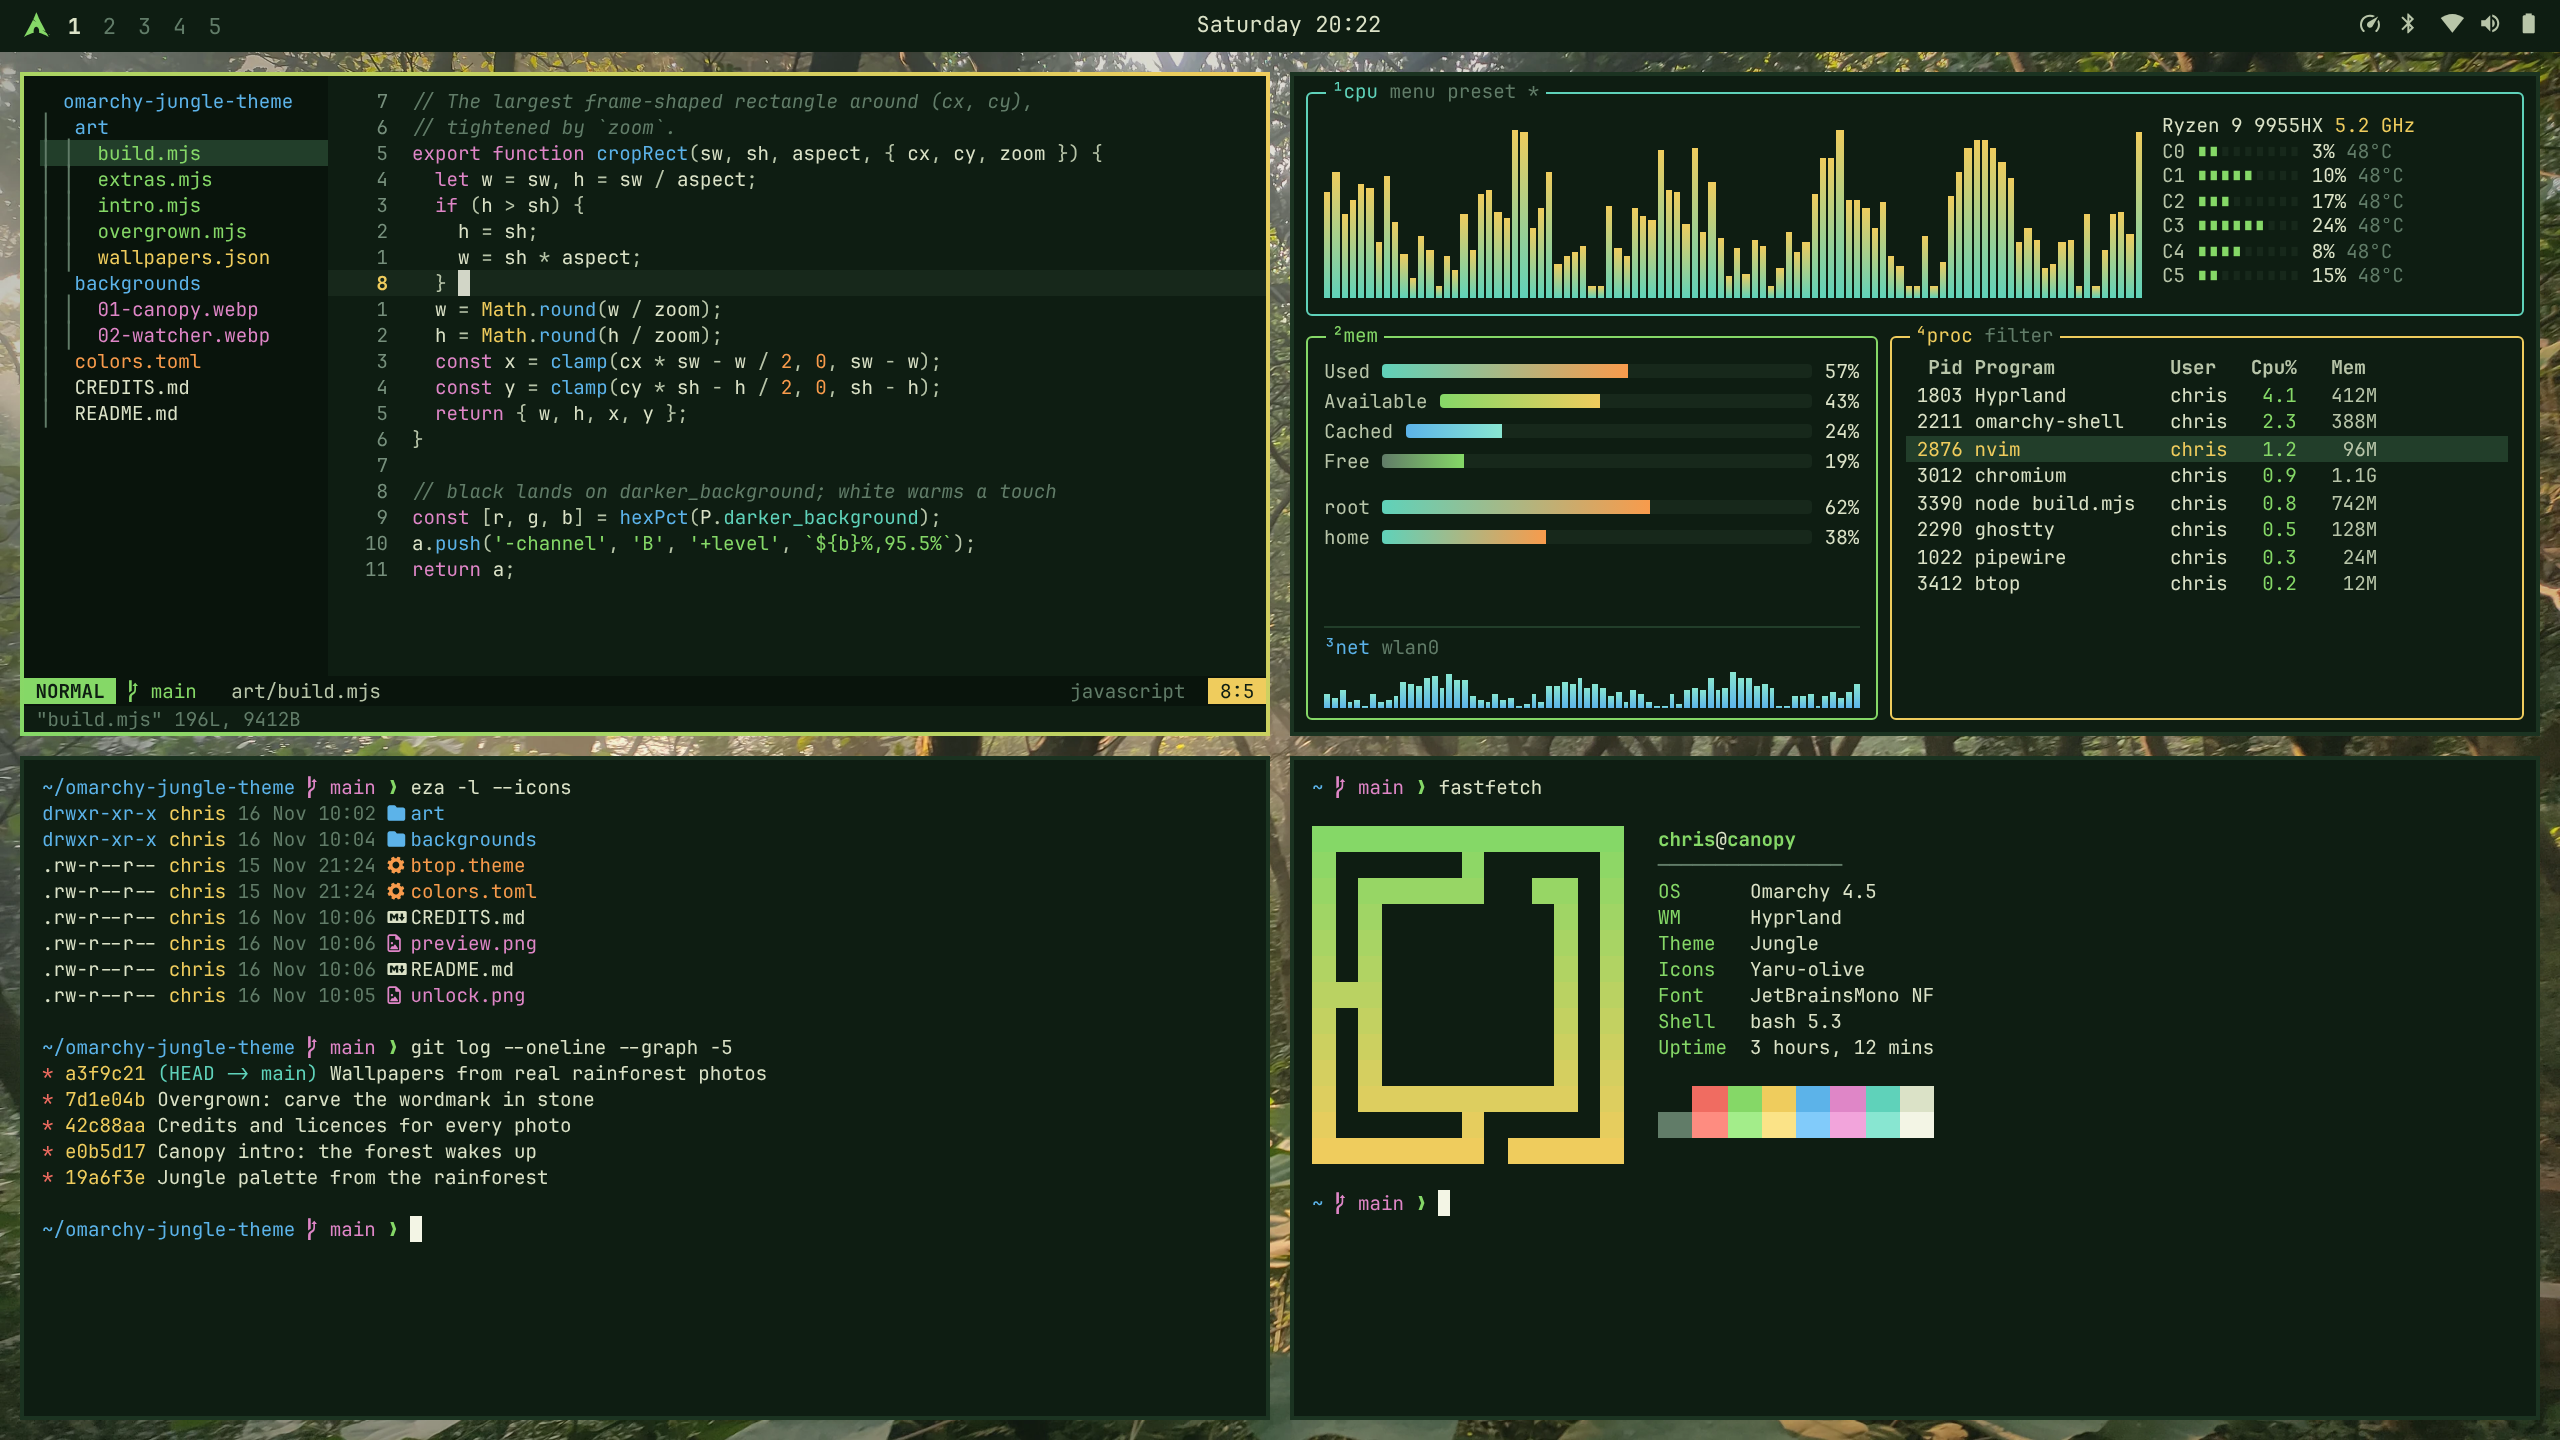
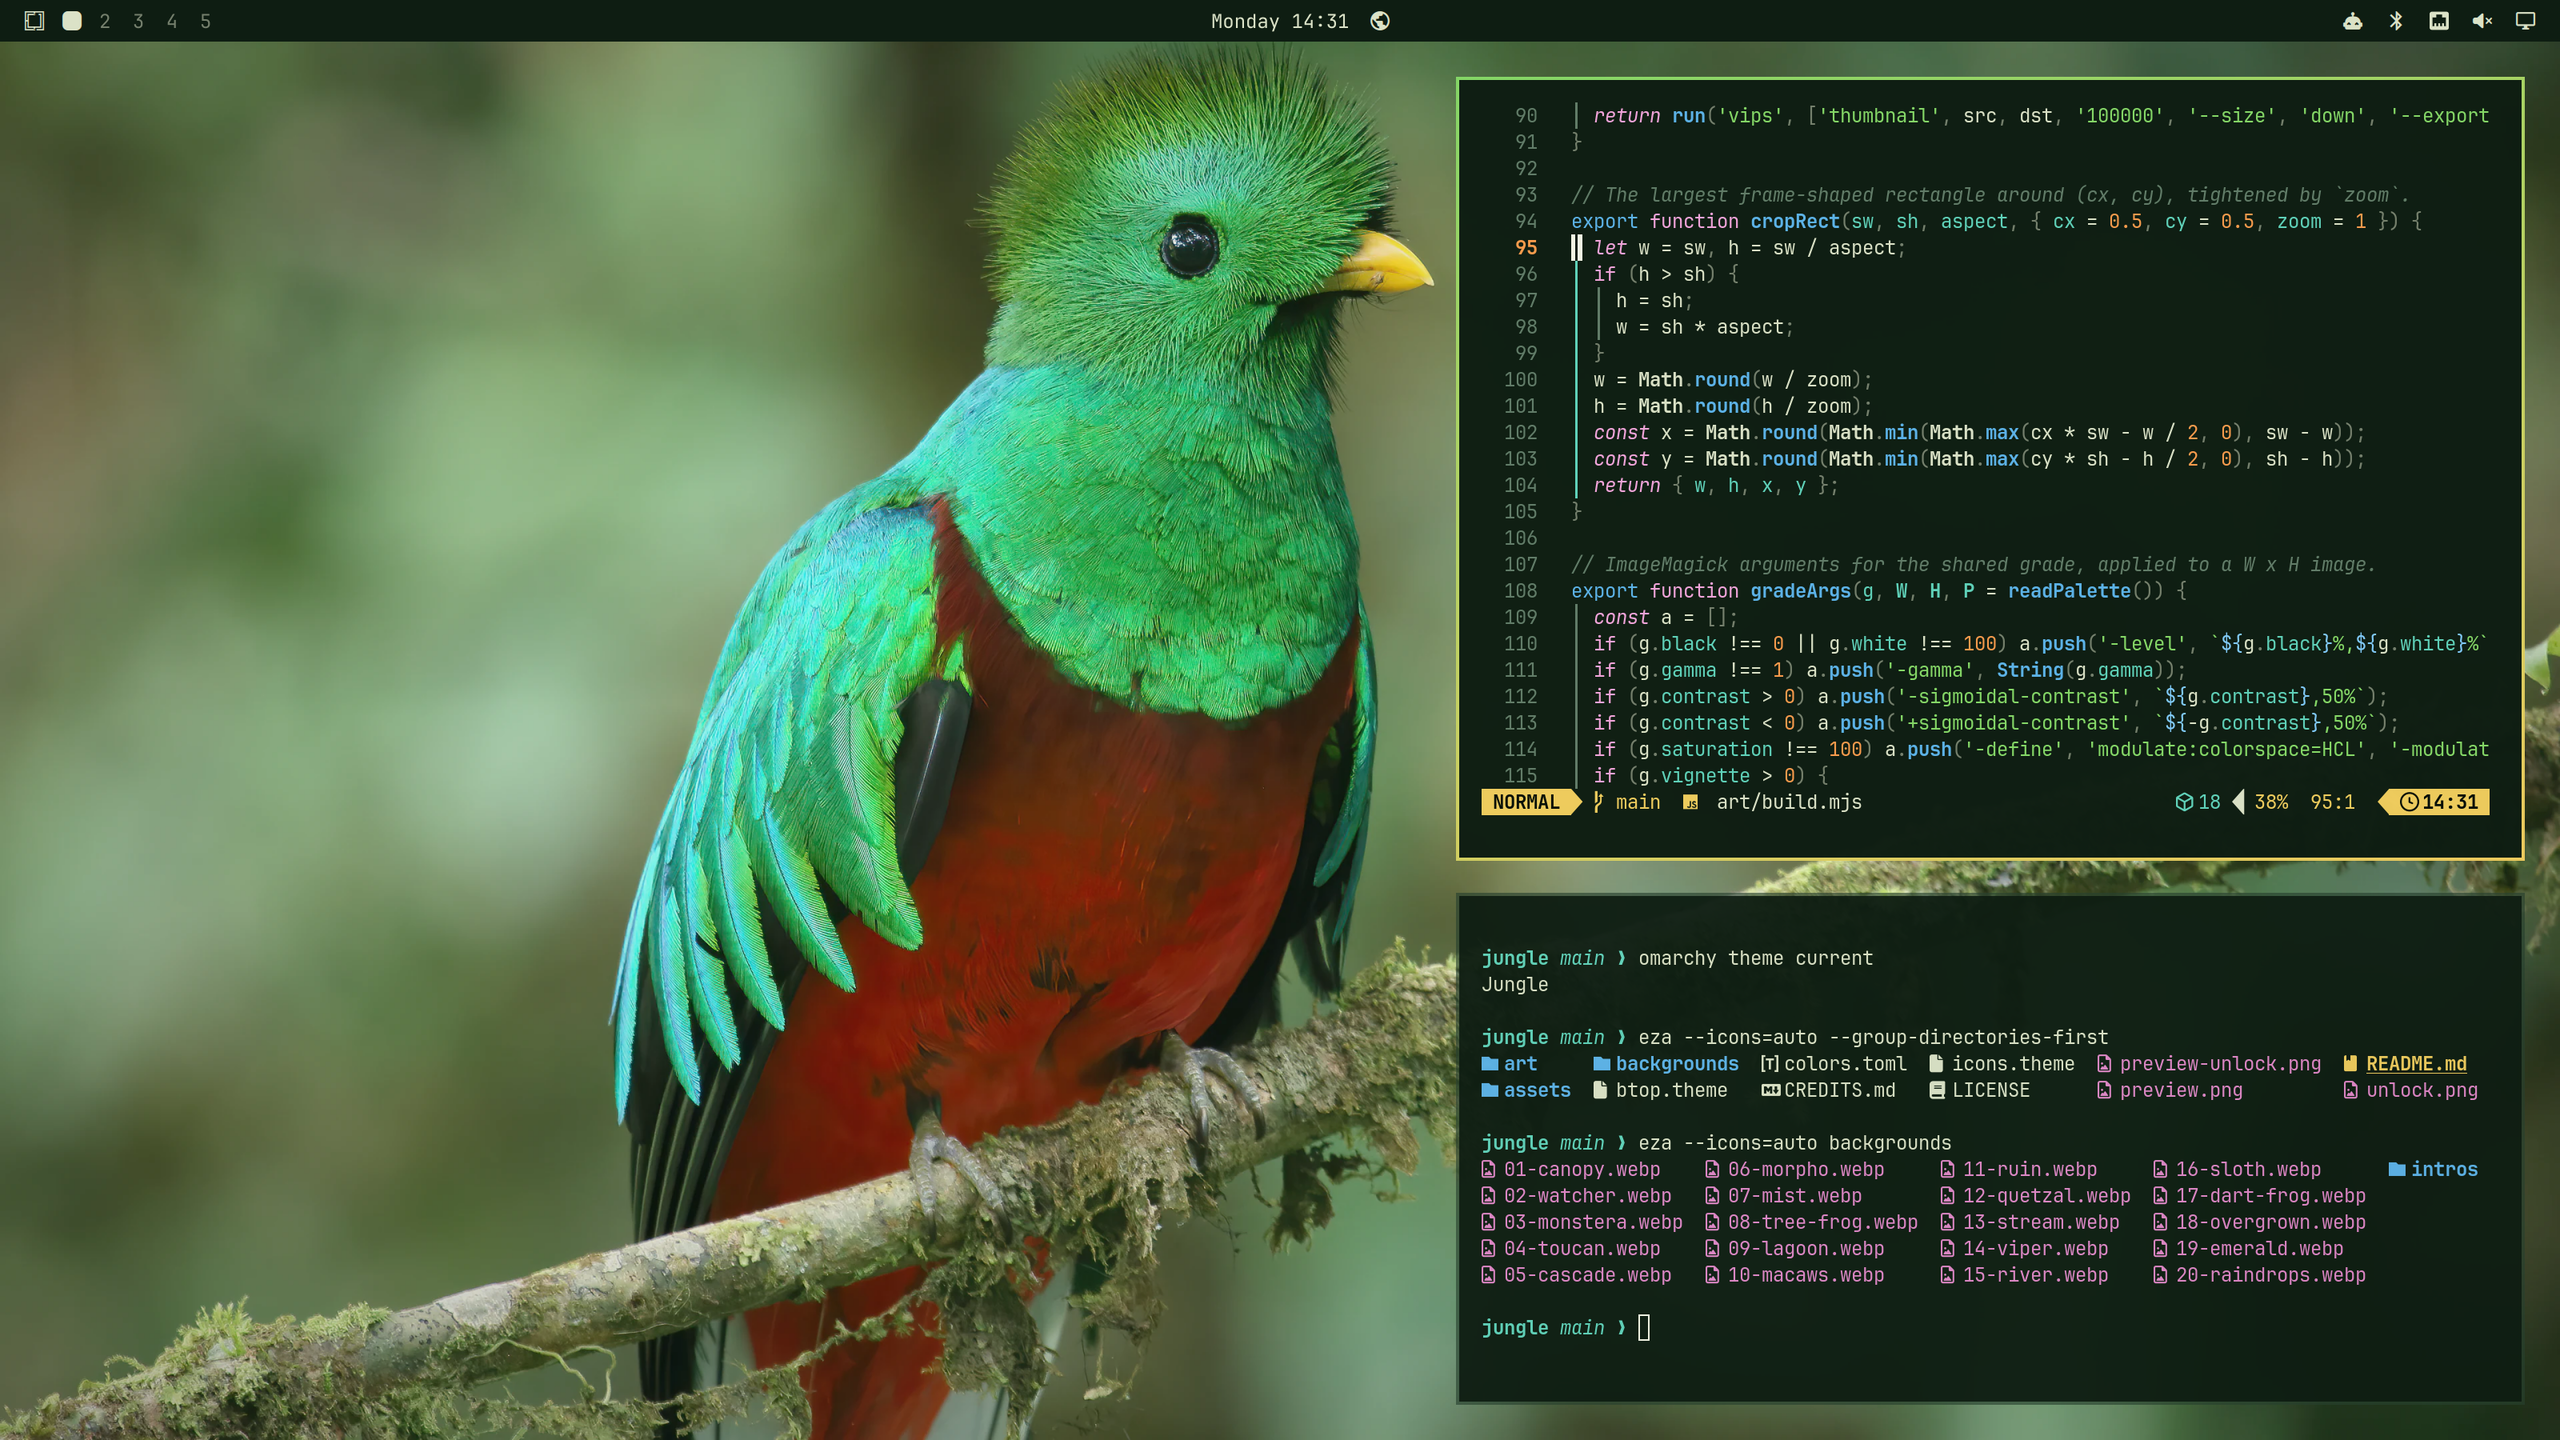
Use a real screenshot as the theme preview
preview.png was a rendered mock-up. It is now a screenshot of the theme
running on Omarchy 4.5, with Neovim and a terminal open on the Quetzal
wallpaper: the same shot submitted to the omarchy.org theme gallery.

The mock-up generator goes with it: art/preview.html, the preview step of
extras.mjs and the playwright-core dependency, so the art scripts no longer
need any npm packages. CREDITS.md now credits the photograph in the preview.

diff --git a/art/README.md b/art/README.md
@@ -1,6 +1,8 @@
 # art/: how the Jungle images are built
 
-Every image in the theme is rebuilt from its source by the scripts here.
+The wallpapers, the intro, the boot logo and the README images are rebuilt from
+their sources by the scripts here. The one exception is `../preview.png`, which
+is a screenshot of the theme running (see the end of this page).
 
 ```
 wallpapers.json   the manifest: each wallpaper's source photograph (Commons title,
@@ -9,20 +11,17 @@ wallpapers.json   the manifest: each wallpaper's source photograph (Commons titl
 build.mjs         photo wallpapers: download, convert to sRGB, crop, resize, grade, WebP
 overgrown.mjs     the carved-stone wallpaper and unlock.png
 intro.mjs         the Canopy intro video
-extras.mjs        preview.png, preview-unlock.png, README images, CREDITS.md
-preview.html      the desktop mock-up behind preview.png
+extras.mjs        preview-unlock.png, README images, CREDITS.md
 omarchy-logo.svg  the wordmark, used as a mask
 ```
 
 ## What you need
 
-- Node 18 or newer
+- Node 18 or newer (no npm packages)
 - ImageMagick 7 (`magick`) and libvips (`vips`)
 - ffmpeg with libx264 and libwebp, for the intro and its README loop
-- Chromium, only for `extras.mjs preview` (`npm install` pulls playwright-core,
-  which drives `/usr/bin/chromium`, or whatever `CHROMIUM` points at)
 
-On Omarchy: `sudo pacman -S --needed imagemagick libvips ffmpeg chromium`.
+On Omarchy: `sudo pacman -S --needed imagemagick libvips ffmpeg`.
 
 ## Photo wallpapers
 
@@ -82,6 +81,18 @@ stone raised instead of cut, on transparency. It is deterministic.
 `intro.mjs` turns `01-canopy.webp` into the intro with one ffmpeg filter chain;
 its last frame is the still. `extras.mjs` composes `preview-unlock.png` the
 same way `omarchy plymouth preview` does (it reads the Plymouth assets from
-`$OMARCHY_PATH`), renders `preview.png`, and regenerates `CREDITS.md` and the
-README gallery from the manifest. It reads the palette straight from
-`../colors.toml`.
+`$OMARCHY_PATH`), and regenerates `CREDITS.md` and the README gallery from the
+manifest. It reads the palette straight from `../colors.toml`.
+
+## The preview
+
+`../preview.png` is a screenshot, not a render: the theme installed on Omarchy
+4.5, with Neovim and a terminal open on the Quetzal wallpaper, captured with
+`grim` and scaled to Omarchy's preview size:
+
+```bash
+magick shot.png -strip -resize 2560x1440 ../preview.png
+```
+
+`"preview"` in the manifest names the wallpaper in the shot, so `CREDITS.md`
+credits the right photograph. Retake it after changing the palette.

diff --git a/README.md b/README.md
@@ -88,9 +88,9 @@ canopy green warming into jaguar gold at 45°
 | `icons.theme` | `Yaru-olive`, the icon set closest to the canopy green. |
 | `backgrounds/` | The wallpapers, plus `intros/01-canopy.mp4`. |
 | `unlock.png`, `preview-unlock.png` | The wordmark cut from mossy stone for the Plymouth boot screen and login, and its preview. |
-| `preview.png` | The theme picker preview. |
+| `preview.png` | The theme picker preview: a screenshot of the theme running. |
 | `CREDITS.md` | Who made each photograph, and under which licence. |
-| `art/` | The scripts that build every image above from its source. |
+| `art/` | The scripts that build the wallpapers, intro and boot logo from their sources. |
 
 The theme installs cleanly from git. Omarchy won't take Lua, terminal configs
 or `vscode.json` from a git-installed theme, so Jungle ships none of them and
@@ -121,7 +121,7 @@ node build.mjs --size 2560x1600      # another screen size (see art/README.md fo
 node build.mjs watcher toucan        # just some of them
 node overgrown.mjs                   # the carved wallpaper and unlock.png
 node intro.mjs                       # the Canopy intro (needs ffmpeg)
-npm install && node extras.mjs       # previews, README images, CREDITS.md
+node extras.mjs                      # boot preview, README images, CREDITS.md
 ```
 
 See [`art/README.md`](art/README.md) for what the scripts need and how they work.

diff --git a/CREDITS.md b/CREDITS.md
@@ -36,9 +36,12 @@ one, credit its photographer, link the licence and say what you changed.
 `unlock.png` and `preview-unlock.png` are cut from the same Mossy Stone Wall material
 (Amal Kumar, [CC0 1.0](https://creativecommons.org/publicdomain/zero/1.0/)).
 
-The intro video (`backgrounds/intros/01-canopy.mp4`), `preview.png` and the
-thumbnails in `assets/` are made from these wallpapers and carry the same
-credits and licences as the photographs in them.
+`preview.png` is a screenshot of the theme running, with *Quetzal* as its wallpaper
+(photograph by Cephas, [CC BY-SA 4.0](https://creativecommons.org/licenses/by-sa/4.0/)).
+
+The intro video (`backgrounds/intros/01-canopy.mp4`) and the thumbnails in
+`assets/` are made from these wallpapers and carry the same credits and
+licences as the photographs in them.
 
 The Omarchy wordmark in *Overgrown* and `unlock.png` belongs to
 [Omarchy](https://omarchy.org) and is used the way its built-in themes use it.
